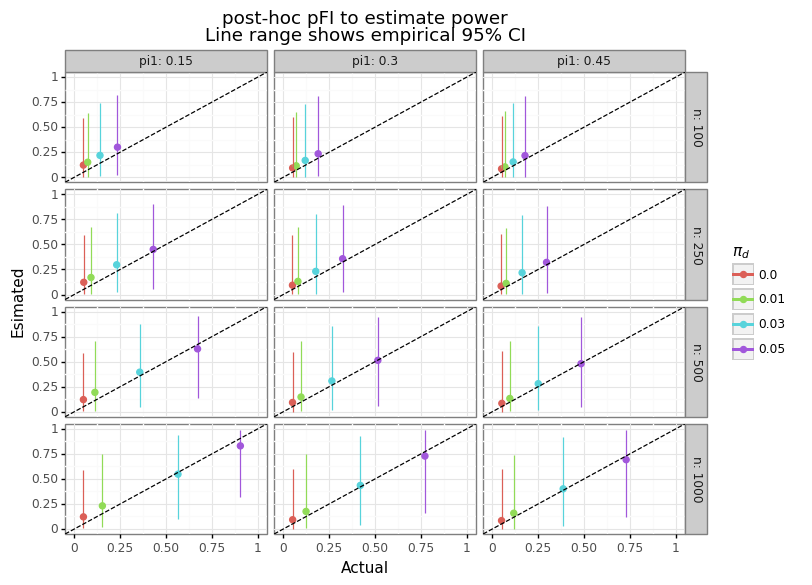
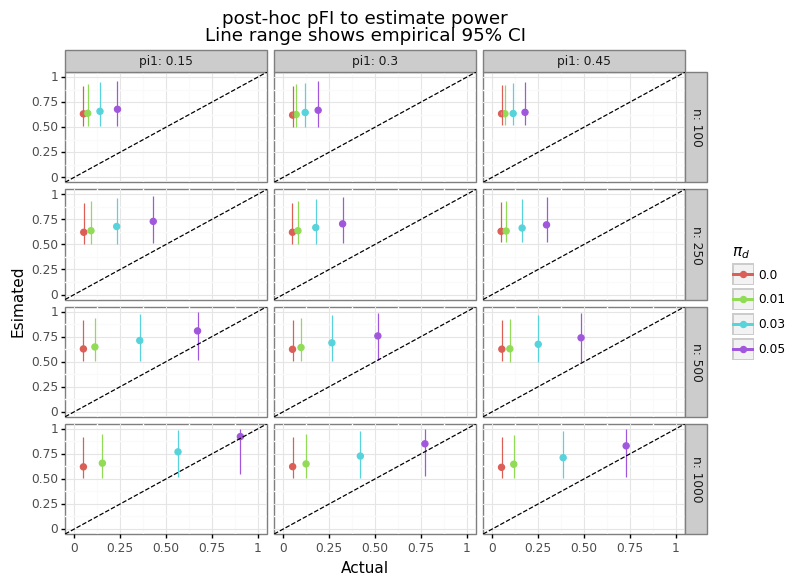
fixing FI post

diff --git a/style.scss b/style.scss
@@ -268,7 +268,7 @@ nav {
     border-left: 2px solid $gray;
     padding: 0.1em 1em;
     color: $gray;
-    font-size: 15px;
+    font-size: 18px;
     font-style: italic;
   }
 

diff --git a/_rmd/extra_FI/explore_binom.py b/_rmd/extra_FI/explore_binom.py
@@ -1,3 +1,6 @@
+# Generate figures used in post
+
+# Load libraries
 import os
 import numpy as np
 import pandas as pd
@@ -24,7 +27,7 @@ sim1.fi()
 sim1.mu_f
 sim1.df_fi.query('reject==1').mean()
 
-gtit='Negative values imply reverse FI\n$\\pi_d=0.1,\\pi_1=0.5,n=100$'
+gtit='Negative values imply reverse FI\n$\\pi_d=0.1,\\pi_1=0.5,n=%i$' % n
 gg_fi_approx = (pn.ggplot(sim1.df_fi,pn.aes(x='fia',y='fi')) + 
     pn.theme_bw() + pn.labs(x='BPFI-approx',y='BPFI-exact') + 
     pn.ggtitle(gtit) + pn.geom_point() + 
@@ -52,24 +55,30 @@ for n in n_seq:
         for pid in pid_seq:
             jj += 1
             print('Iteration %i of %i' % (jj, n_perm))
+            # assert False
             pi2 = pi1 + pid
             sim_jj = BPFI(n=n, pi1=pi1, pi2=pi2, alpha=alpha)
             sim_jj.dgp(nsamp=nsim, seed=jj)
             sim_jj.fi()
+            # self = sim_jj
             # (i) Compare predicted to actual power
             emp_power = sim_jj.reject.mean()
             est_power = sim_jj.power
             tmp_power = pd.DataFrame({'msr':'power','n':n, 'pi1':pi1, 'pid':pid, 'est':est_power, 'emp':emp_power}, index=[jj])
+            
             # (ii) Compare average FI to expected
-            pfi_jj = sim_jj.df_fi.query('reject==1')['fia'].values
+            tmp_rejected = sim_jj.df_fi.query('reject==1')
+            pfi_jj = tmp_rejected['fi'].values
             emp_fi = pfi_jj.mean()
             est_fi = sim_jj.mu_f
             tmp_fi = pd.DataFrame({'msr':'FI','n':n, 'pi1':pi1, 'pid':pid, 'est':est_fi, 'emp':emp_fi}, index=[jj])
-            # (iii) Estimate power from FI
-            tmp_invert = sim_jj.df_fi['power'].quantile([alpha/2,0.5,1-alpha/2]).reset_index()
-            tmp_invert['index'] = tmp_invert['index'].map({alpha/2:'lb',0.5:'med',1-alpha/2:'ub'})
-            tmp_invert = tmp_invert.assign(idx=jj).pivot('idx','index','power').reset_index(None,drop=True)
-            tmp_invert = tmp_invert.assign(n=n,pi1=pi1,pid=pid)
+
+            # # (iii) Estimate power from FI
+            # tmp_invert = tmp_rejected['power'].quantile([alpha/2,0.5,1-alpha/2]).reset_index()
+            # tmp_invert['index'] = tmp_invert['index'].map({alpha/2:'lb',0.5:'med',1-alpha/2:'ub'})
+            # tmp_invert = tmp_invert.assign(idx=jj).pivot('idx','index','power').reset_index(None,drop=True)
+            # tmp_invert = tmp_invert.assign(n=n,pi1=pi1,pid=pid)
+            
             # (iv) Save representative sample of FI values
             pfi_jj_hat = pd.Series(pfi_jj).sample(n=2500,replace=True,random_state=jj).values
             tmp_pfi = pd.DataFrame({'n':n, 'pi1':pi1, 'pid':pid, 'pfi':pfi_jj_hat})
@@ -77,13 +86,14 @@ for n in n_seq:
             # Save
             holder_power.append(tmp_power)
             holder_fi.append(tmp_fi)
-            holder_invert.append(tmp_invert)
+            # holder_invert.append(tmp_invert)
             holder_dist.append(tmp_pfi)
+
 # Merge and plot            
 res_power = pd.concat(holder_power)
 res_fi_mu = pd.concat(holder_fi)
-res_invert = pd.concat(holder_invert).reset_index(None,drop=True)
-res_invert = res_invert.merge(res_power)
+# res_invert = pd.concat(holder_invert).reset_index(None,drop=True)
+# res_invert = res_invert.merge(res_power)
 res_pfi = pd.concat(holder_dist).reset_index(None, drop=True)
 
 #########################
@@ -104,25 +114,25 @@ gg_save('gg_power.png',dir_figures,gg_power,8,6)
 # (ii) Average fragility index
 gg_fi_mu = (pn.ggplot(res_fi_mu,pn.aes(x='emp',y='est',color='pid.astype(str)')) + 
     pn.theme_bw() + pn.geom_point(size=3) + 
-    pn.ggtitle('Positive fragility index (pFI)') + 
+    pn.ggtitle('Mean of positive fragility index (pFI)') + 
     pn.labs(x='Actual',y='Expected') + 
     pn.facet_grid('n~pi1',labeller=pn.label_both) + 
     pn.geom_abline(slope=1,intercept=0,linetype='--') + 
     pn.scale_color_discrete(name='$\\pi_d$'))
 gg_save('gg_fi_mu.png',dir_figures,gg_fi_mu,8,6)
 
-# (iii) Post-hoc power
-gg_posthoc = (pn.ggplot(res_invert,pn.aes(x='emp',y='med',color='pid.astype(str)')) + 
-    pn.theme_bw() + pn.geom_point(size=2) + 
-    pn.geom_linerange(pn.aes(ymin='lb',ymax='ub')) + 
-    pn.ggtitle('post-hoc pFI to estimate power\nLine range shows empirical 95% CI') +
-    pn.labs(x='Actual',y='Esimated') + 
-    pn.facet_grid('n~pi1',labeller=pn.label_both) + 
-    pn.geom_abline(slope=1,intercept=0,linetype='--') + 
-    pn.scale_y_continuous(limits=[0,1]) + 
-    pn.scale_x_continuous(limits=[0,1]) + 
-    pn.scale_color_discrete(name='$\\pi_d$'))
-gg_save('gg_posthoc.png',dir_figures,gg_posthoc,8,6)
+# # (iii) Post-hoc power
+# gg_posthoc = (pn.ggplot(res_invert,pn.aes(x='emp',y='med',color='pid.astype(str)')) + 
+#     pn.theme_bw() + pn.geom_point(size=2) + 
+#     pn.geom_linerange(pn.aes(ymin='lb',ymax='ub')) + 
+#     pn.ggtitle('post-hoc pFI to estimate power\nLine range shows empirical 95% CI') +
+#     pn.labs(x='Actual',y='Esimated') + 
+#     pn.facet_grid('n~pi1',labeller=pn.label_both) + 
+#     pn.geom_abline(slope=1,intercept=0,linetype='--') + 
+#     pn.scale_y_continuous(limits=[0,1]) + 
+#     pn.scale_x_continuous(limits=[0,1]) + 
+#     pn.scale_color_discrete(name='$\\pi_d$'))
+# gg_save('gg_posthoc.png',dir_figures,gg_posthoc,8,6)
 
 # (iv) Post-hoc fragility index
 gg_pfi = (pn.ggplot(res_pfi,pn.aes(x='np.log(pfi+1)',fill='pid.astype(str)')) + 

diff --git a/_rmd/extra_FI/funs_explore.py b/_rmd/extra_FI/funs_explore.py
@@ -2,6 +2,22 @@ import os
 import numpy as np
 import pandas as pd
 from scipy.stats import norm
+from scipy.optimize import minimize_scalar
+
+# Function to find power
+def power_func(power, target):
+    ipower = norm.ppf(power)
+    return (ipower + norm.pdf(-ipower)/norm.cdf(ipower) - target)**2
+
+def find_power(lhs, nprint):
+    N = len(lhs)
+    holder = np.zeros(N)
+    for i in range(N):
+        if (i+1) % nprint == 0:
+            print('Iteration %i of %i' % (i+1, N))
+        res = minimize_scalar(power_func,method='bounded',bounds=(0,1), args=(lhs[i])).x
+        holder[i] = res
+
 
 """
 s:          # of successes
@@ -34,19 +50,20 @@ class BPFI():
         if self.pi2 is None:
             self.pi2 = self.pi1
         self.pid = self.pi2 - self.pi1
+        self.pi0 = (self.pi1 + self.pi2) / 2
         self.null = True
         if self.pid > 0:
             self.null = False
         # Calculate the oracle power
         self.t_a = norm.ppf(1-alpha)
-        num = np.sqrt(2*self.pi1*(1-self.pi1))*self.t_a-np.sqrt(n)*self.pid
+        num = np.sqrt(2*self.pi0*(1-self.pi0))*self.t_a-np.sqrt(n)*self.pid
         den = np.sqrt(self.pid + self.pi1*(2-self.pi1) - (self.pi1 + self.pid)**2 )
         self.power = 1 - norm.cdf(num / den)
 
         # Calculate the expected value of the FI
-        se_f = np.sqrt(2*self.n*self.pi1*(1-self.pi1))
-        self.mu_f = self.n*(self.pi2-self.pi1) - self.t_a*se_f
-        self.mu_f += se_f*norm.pdf(-self.mu_f/se_f)/norm.cdf(self.mu_f/se_f)
+        se_f = np.sqrt(2*self.n*self.pi0*(1-self.pi0))
+        self.mu_f = self.n*self.pid - self.t_a*se_f
+        self.mu_f += se_f*norm.pdf(-norm.ppf(self.power))/norm.cdf(norm.ppf(self.power))
 
 
     @staticmethod
@@ -81,15 +98,14 @@ class BPFI():
         s2hat2 = (self.s1 + np.sqrt(2*self.n*self.pi0_hat*(1-self.pi0_hat))*self.t_a)
         fi2 = self.s2 - s2hat2
         
-        # Calculation of power
+        # Inverse calculation of power
         pi1hat = self.s1/self.n
         pi2hat = self.s2/self.n
-        se_alt = np.sqrt(pi1hat*(1-pi1hat) + pi2hat*(1-pi2hat))
-        power_mu = norm.cdf(fi2/(np.sqrt(self.n*se_alt)))
-        
+        sig_hat = np.sqrt(self.n*(pi1hat*(1-pi1hat) + pi2hat*(1-pi2hat)))
+        lhs = fi2/sig_hat
+        power_mu = find_power(lhs=lhs, nprint=100)
+
         # Store
-        self.df_fi = pd.DataFrame({'reject':self.reject,'power':power_mu,'fi':fi1, 'fia':fi2})
+        self.df_fi = pd.DataFrame({'reject':self.reject,'fi':fi1, 'fia':fi2})
+        # 'power':power_mu,
         
-        
-
-

diff --git a/_posts/2021-11-07-fragility_index.md b/_posts/2021-11-07-fragility_index.md
@@ -9,19 +9,19 @@ mathjax: true
 
 ## Summary
 
-This post reviews the fragility index, a statistical technique proposed by [Walsh et. al (2014)](http://statmodeling.stat.columbia.edu/wp-content/uploads/2016/07/fragility-index-2014.pdf) to provide an "intuitive" measure of the robustness of study findings. I show that the distribution of the fragility index can be shown to approximate a truncated Gaussian whose expectation is directly related to the power of the test (see equation \eqref{eq:fi_power}). This evidence will hopefully clarify the debate around what statistical quantity the fragility index represents. However, even though the fragility index can, on average, estimate the power of a test, it is a  noisy indicator. I conclude with some arguments both in favour and against the fragility index. To replicate all figures in this post, see [this script](https://github.com/erikdrysdale/erikdrysdale.github.io/blob/master/_rmd/extra_FI/explore_binom.py).
+This post reviews the fragility index, a statistical technique proposed by [Walsh et. al (2014)](http://statmodeling.stat.columbia.edu/wp-content/uploads/2016/07/fragility-index-2014.pdf) to provide an intuitive measure of the robustness of study findings. I show that the distribution of the fragility index can be approximated by a truncated Gaussian whose expectation is directly related to the power of the test (see equation \eqref{eq:fi_power}). This evidence will hopefully clarify the debate around what statistical quantity the fragility index actually represents. However, even though the fragility index can, on average, estimate the power of a test, it is a noisy indicator. In the final sections of this post I provide arguments both in favour and against the fragility index. To replicate all figures in this post, see [this script](https://github.com/erikdrysdale/erikdrysdale.github.io/blob/master/_rmd/extra_FI/explore_binom.py).
 
 <br>
 
 ## (1) Background
 
-Most published studies have exaggerated effect sizes. There are two main reasons for this. First, academic studies are under-powered. This means they do not have enough samples to be able to detect small effects. Second, academic journals incentivize researchers to publish "novel" findings that are statistically significant. In other words, researchers are encouraged to try different variations of statistical tests until something "interesting" is found.[[^1]] As a reminder, the power of a statistical test defines the probability that an effect will be detected when it exists. Power is proportional to the sample size for [consistent](https://en.wikipedia.org/wiki/Consistency_(statistics)) tests because more samples leads to tighter inference around some effect size. Most researchers are aware of the idea of statistical power, but a much small share understand that it is [directly related](http://www.erikdrysdale.com/winners_curse) to effect size bias. Conditional on statistical significance, all measured effect are biased upwards, because there  is a minimum effect size needed for a test to be considered statistically significant.[[^2]] Evidence that most fields of science are under-powered in practice are numerous (see [here](https://www.nature.com/articles/nrn3475) or [here](https://en.wikipedia.org/wiki/Proteus_phenomenon)). Many disciplines do not even require studies to make power justifications before research begins.[[^3]] 
+Most published studies have exaggerated effect sizes. There are two main reasons for this. First, scientific research tends to be under-powered. This means that studies do not have enough samples to be able to detect small effects. Second, academic journals incentivize researchers to publish "novel" findings that are statistically significant. In other words, researchers are encouraged to try different variations of statistical tests until something "interesting" is found.[[^1]] As a reminder, the power of a statistical test defines the probability that an effect will be detected when it exists. Power is proportional to the sample size for [consistent](https://en.wikipedia.org/wiki/Consistency_(statistics)) tests because more samples leads to tighter inference around some effect size. Most researchers are aware of the idea of statistical power, but a much small share understand that it is [directly related](http://www.erikdrysdale.com/winners_curse) to effect size bias. Conditional on statistical significance, all measured effects are biased upwards because there  is a minimum effect size needed for a test to be considered statistically significant.[[^2]] Evidence that most fields of science are under-powered in practice are numerous (see [here](https://www.nature.com/articles/nrn3475) or [here](https://en.wikipedia.org/wiki/Proteus_phenomenon)). Many disciplines do not even require studies to make power justifications before research begins.[[^3]] 
 
-One unfortunate reaction to the problem of low power is for researchers to carry out *post-hoc* (after-the-fact) power calculations, using the estimated effect size as the basis of the power calculations. This approach is highly problematic for three reasons. First, *post-hoc* power is [mathematically redundant](https://stat.uiowa.edu/sites/stat.uiowa.edu/files/techrep/tr378.pdf) since it has a one-to-one mapping with the conventionally calculated p-value. Second, *post-hoc* power will always "show" high power for statistically significant results, and low power for statistically insignificant results (this [helpful post](https://blogs.worldbank.org/impactevaluations/why-ex-post-power-using-estimated-effect-sizes-bad-ex-post-mde-not) explains why).[[^4]] Lastly, in underpowered designs, the estimated effect will be noisy, making *post-hoc* estimates of power [equally as noisy](http://www.stat.columbia.edu/~gelman/research/published/retropower_final.pdf)!
+Some researchers have attempted to justify the sample sizes of their studies by doing out *post-hoc* (after-the-fact) power calculations using the estimated effect size as the basis for their estimates. This approach is problematic for three reasons. First, *post-hoc* power using the measured effect size as the assumed effect size is [mathematically redundant](https://stat.uiowa.edu/sites/stat.uiowa.edu/files/techrep/tr378.pdf) since it has a one-to-one mapping with the conventionally calculated p-value. Second, this type of *post-hoc* power will always show high power for statistically significant results, and low power for statistically insignificant results (this [helpful post](https://blogs.worldbank.org/impactevaluations/why-ex-post-power-using-estimated-effect-sizes-bad-ex-post-mde-not) explains why).[[^4]] Lastly, in underpowered designs, the estimated effect will be noisy, making *post-hoc* estimates of power [equally as noisy](http://www.stat.columbia.edu/~gelman/research/published/retropower_final.pdf)!
 
 The fragility index (FI) is relatively new statistical technique that uses an intuitive approach to quantify *post-hoc* robustness in studies with a binary outcomes framework with two groups. Qualitatively, the FI states how many patients in the treatment group would need to have their status swapped from event to no-event in order for the trial to be statistically insignificant.[[^5]] In the original Walsh paper, the FI was calculated for RCTs published in high impact medical journals. They found median FI of 8, and a 25% quantile of 3. 
 
-Since the original Walsh paper, the FI has been applied hundreds of times to other branches of the (mainly) medical literature.[[^6]] Most branches of medical literature show a median FI that is in the single digits. While the FI has its drawbacks (discussed below), this new approach appears to have captured the statistical imagination of researchers in a way that power calculations have not. While being told that a study has 20% power should cause immediate concern, it apparently does not cause the same level of concern as finding out an important cancer drug RCT was two coding errors away from being deemed ineffective.
+Since the original Walsh paper, the FI has been applied hundreds of times to other areas of medical literature.[[^6]] Most branches of medical literature show a median FI that is in the single digits. While the FI has its drawbacks (discussed below), this new approach appears to have captured the statistical imagination of researchers in a way that power calculations have not. While being told that a study has 20% power should cause immediate alarm, it apparently does not cause the same level of concern as finding out an important cancer drug RCT was two coding errors away from being deemed ineffective.
 
 The rest of this post is organized as follows: section (2) provides an explicit relationship between the fragility index and the power of the test, section (3) provides an algorithm to calculate the FI using `python` code, section (4) reviews the criticisms against FI, and section (5) concludes.
 
@@ -29,7 +29,7 @@ The rest of this post is organized as follows: section (2) provides an explicit 
 
 ## (2) Binomial proportion fragility index (BPFI)
 
-This section examines the distribution of the FI when the test statistic is the normal-approximation of a difference in a binomial proportion; hereafter referred to as the binomial proportion fragility index (BPFI). While the Fisher's exact test is normally used for estimating the FI, the BPFI is easier to study because it has an analytic solution. Two other simplifications will be used in this section for ease of analysis. First, the sample sizes will be the same between groups and second, a one-sided hypothesis test will be used. Even though the BPFI may not be standard, it is a consistent statistic that is [asymptotically normal](https://math.stackexchange.com/questions/2579383/proof-of-binomial-distribution-asymptotic-to-normal-distribution) and is just as valid as using asymptotic statistics like a chi-squared test. 
+This section examines the distribution of the FI when the test statistic is the normal-approximation of a difference in a binomial proportion; hereafter referred to as the binomial proportion fragility index (BPFI). While Fisher's exact test is normally used for estimating the FI, the BPFI is easier to study because it has an analytic solution. Two other simplifications will be used in this section for ease of analysis. First, the sample sizes will be the same between groups, and second, a one-sided hypothesis test will be used. Even though the BPFI may not be standard, it is a consistent statistic that is [asymptotically normal](https://math.stackexchange.com/questions/2579383/proof-of-binomial-distribution-asymptotic-to-normal-distribution) and is just as valid as using asymptotic statistics like a chi-squared test. 
 
 The notation used will be as follows: the statistic is the difference in proportions, \\(d\\), whose asymptotic distribution is a function of the number of samples and the respective binary probabilities (\\(\pi_1, \pi_2\\)): 
 
@@ -45,7 +45,7 @@ d &\overset{a}{\sim} N\Bigg( \pi_d, V_d(n)  \Bigg) \\
 \end{align*}
 $$
 
-Assume that \\(n_1 = n_2 = n\\) and the null-hypothesis is \\(\pi_2 \leq \pi_1\\). We want to test whether group 1 has a large event rate than group 2.
+Assume that \\(n_1 = n_2 = n\\) and the null-hypothesis is \\(\pi_2 \leq \pi_1\\). We want to test whether group 1 has a larger event rate than group 2.
 
 $$
 \begin{align*}
@@ -60,20 +60,23 @@ d_A &\overset{a}{\sim} N\Big( \pi_d, \big[\pi_d +\pi_2(2-\pi_2) - (\pi_2+\pi_d)^
 \end{align*}
 $$
 
-Notice that when calculating the variance of the test statistic when the null is false, the event rate is calculated by pooling by samples. For a given type-1 error rate target (\\(\alpha\\)), and corresponding rejection threshold, the power of the test when the null is false can be calculated:
+Notice that when calculating the variance of the test statistic when the null is false, the event rate pools the events across groups. For a given type-1 error rate target (\\(\alpha\\)), and corresponding rejection threshold, the power of the test when the null is false can be calculated:
 
 $$
 \begin{align*}
 \text{Reject }H_0:& \hspace{3mm} \hat{d} > \sqrt{\frac{2\hat\pi_0(1-\hat\pi_0)}{n}}t_\alpha, \hspace{7mm} t_\alpha = \Phi^{-1}_{1-\alpha/2} \\
-P(\text{Reject }H_0 | H_A) &= 1 - \Phi\Bigg(  \frac{\sqrt{2 \pi_1(1-\pi_1)}t_\alpha - \sqrt{n}\pi_d }{\sqrt{\pi_d +\pi_1(2-\pi_1) - (\pi_1+\pi_d)^2}} \Bigg) \\
-\text{Power} &= \Phi\Bigg( \frac{\sqrt{n}\pi_d - \sqrt{2 \pi_1(1-\pi_1)}t_\alpha }{\sqrt{\pi_1(1-\pi_1)+\pi_2(1-\pi_2)}} \Bigg) \tag{1}\label{eq:power} \\
+P(\text{Reject }H_0 | H_A) &= 1 - \Phi\Bigg(  \frac{\sqrt{2 \pi_0(1-\pi_0)}t_\alpha - \sqrt{n}\pi_d }{\sqrt{\pi_d +\pi_1(2-\pi_1) - (\pi_1+\pi_d)^2}} \Bigg) \\
+\text{Power} &= \Phi\Bigg( \frac{\sqrt{n}\pi_d - \sqrt{2 \pi_0(1-\pi_0)}t_\alpha }{\sqrt{\pi_1(1-\pi_1)+\pi_2(1-\pi_2)}} \Bigg) \tag{1}\label{eq:power} \\
 \end{align*}
 $$
 
 The formula \eqref{eq:power} shows that increasing \\(\pi_d\\), \\(n\\), or \\(\alpha\\) all increase the power. Figure 1 below shows that formula to estimate power is a close approximation for reasonable sample sizes.
 
-<center><h3><b>Figure 1: Predicted vs Actual power </b></h3></center>
+
+<br>
+<center><h2><b>Figure 1: Predicted vs Actual power </b></h3></center>
 <center><p><img src="/figures/gg_power.png" width="99%"></p></center>
+<br>
 
 Given that the null has been rejected, the roots of the equation can be solved to find the exact point of statistical insignificance using the quadratic formula.
 
@@ -90,52 +93,60 @@ While equation \eqref{eq:fi1} is exact, the FI can be approximated by assuming t
 $$
 \begin{align*}
 \hat{\text{FI}}_a &= \begin{cases} 
-\hat{s}_2 - \Big(\hat{s}_1 + t_\alpha\sqrt{2n \hat\pi_0(1-\hat\pi_0)}\Big) &\text{ if \\(n_1 = n_2\\)} \\
-\hat{s}_2 - n_2 \Big(\frac{\hat{s}_1}{n_1} + t_\alpha\sqrt{\frac{\hat\pi_0(1-\hat\pi_0)(n_1+n_2)}{n_1n_2}} \Big) &\text{ if \\(n_1\neq n_2\\)} \tag{3}\label{eq:fi2}
+\hat{s}_2 - \Big(\hat{s}_1 + t_\alpha\sqrt{2n \hat\pi_0(1-\hat\pi_0)}\Big) &\text{ if ) n_1 = n_2} \\
+\hat{s}_2 - n_2 \Big(\frac{\hat{s}_1}{n_1} + t_\alpha\sqrt{\frac{\hat\pi_0(1-\hat\pi_0)(n_1+n_2)}{n_1n_2}} \Big) &\text{ if } n_1\neq n_2 \tag{3}\label{eq:fi2}
 \end{cases}
 \end{align*}
 $$
 
 As Figure 2 shows below, \eqref{eq:fi2} is very close to the \eqref{eq:fi1} for reasonably sized draws (\\(n=200\\)).
 
-<center><h3><b>Figure 2: BPFI and its approximation</b></h3></center>
+<br>
+<center><h2><b>Figure 2: BPFI and its approximation</b></h3></center>
 <center><p><img src="/figures/gg_fi_approx.png" width="50%"></p></center>
+<br>
 
-Next, we can show that the approximation of the BPFI from \eqref{eq:fi2} is equivalent to a truncated normal when conditioning on statistical significance. 
+Next, we can show that the approximation of the BPFI from \eqref{eq:fi2} is equivalent to a truncated Gaussian when conditioning on statistical significance. 
 
+<!-- s_2 - (s_1 + t_\alpha\sqrt{2n \pi_1(1-\pi_1)}) \hspace{2mm} &\big| \hspace{2mm} s_2 - (s_1 + t_\alpha\sqrt{2n \pi_1(1-\pi_1)}) > 0\hspace{2mm} \longleftrightarrow \\ -->
 $$
 \begin{align*}
-s_2 - (s_1 + t_\alpha\sqrt{2n \pi_1(1-\pi_1)}) \hspace{2mm} &\big| \hspace{2mm} s_2 - (s_1 + t_\alpha\sqrt{2n \pi_1(1-\pi_1)}) > 0\hspace{2mm} \longleftrightarrow \\
 \text{pFI}_a &= \text{FI}_a \hspace{2mm} \big| \hspace{2mm} \text{FI}_a > 0 \hspace{2mm} \longleftrightarrow \\
-\text{FI}_a &\sim N \big( n\pi_d - t_\alpha\sqrt{2n \pi_1(1-\pi_1)}, n[\pi_1(1-\pi_1) + \pi_2(1-\pi_2)]   \big) \\
-E[\text{pFI}_a] &= n\pi_d - t_\alpha\sqrt{2n \pi_1(1-\pi_1)} + \sqrt{n[\pi_1(1-\pi_1) + \pi_2(1-\pi_2)]} \frac{\phi(-E[\text{FI}_a]/\text{Var}[\text{FI}_a]^{0.5})}{\Phi(E[\text{FI}_a/\text{Var}[\text{FI}_a]^{0.5}])}
+\text{FI}_a &\sim N \big( n\pi_d - t_\alpha\sqrt{2n \pi_0(1-\pi_0)}, n[\pi_1(1-\pi_1) + \pi_2(1-\pi_2)]   \big) \\
+E[\text{pFI}_a] &= n\pi_d - t_\alpha\sqrt{2n \pi_0(1-\pi_0)} + \sqrt{n[\pi_1(1-\pi_1) + \pi_2(1-\pi_2)]} \frac{\phi(-E[\text{FI}_a]/\text{Var}[\text{FI}_a]^{0.5})}{\Phi(E[\text{FI}_a/\text{Var}[\text{FI}_a]^{0.5}])}
 \end{align*}
 $$
 
-<center><h3><b>Figure 3: Mean of the pFI </b></h3></center>
-<center><p><img src="/figures/gg_fi_mu.png" width="99%"></p></center>
+Figure 3 below shows that the truncated Gaussian approximation does a good job at estimating the actual mean of BPFI. 
 
+<br>
+<center><h2><b>Figure 3: Mean of the pFI </b></h3></center>
+<center><p><img src="/figures/gg_fi_mu.png" width="99%"></p></center>
+<br>
 
 If the positive BPFI is divided by root-n and the variance under the alternative (a constant) we obtain something converging to a monotonic transformation of the fragility index:
 
 $$
 \begin{align*}
-E\Bigg[\frac{\text{pFI}_a \big/ \sqrt{n}}{\sqrt{\pi_1(1-\pi_1) + \pi_2(1-\pi_2)} }\Bigg] &= \Phi^{-1}(1-\beta) + \frac{\phi\big(-O\big(\sqrt{n}\big)\big)}{\Phi\big(O\big(\sqrt{n}\big)\big)} \\
-&= \Phi^{-1}(\underbrace{1-\beta}_{\text{power}}) + O\Big(e^{-\sqrt{n}}\Big) \tag{4}\label{eq:fi_power}
+E\Bigg[\frac{\text{pFI}_a \big/ \sqrt{n}}{\sqrt{\pi_1(1-\pi_1) + \pi_2(1-\pi_2)} }\Bigg] &= \Phi^{-1}(1-\beta) + \frac{\phi\big(c_2-c_1\sqrt{n})}{\Phi\big(c_1\sqrt{n}-c_2\big)} \\
+&= \Phi^{-1}(\underbrace{1-\beta}_{\text{power}}) + O\Big(e^{-\sqrt{n}}\Big) \tag{4}\label{eq:fi_power} \\
+1-\hat\beta &\approx \Bigg( \frac{\hat{\text{pFI}}_a \big/ \sqrt{n}}{\sqrt{\hat\pi_1(1-\hat\pi_1) + \hat\pi_2(1-\hat\pi_2)} } \Bigg) \tag{5}\label{eq:invert}
 \end{align*}
 $$
 
-Where \\(\beta\\) is the type-II error rate (i.e. one minus power). Figure 4 below shows the range of power esetimates that are obtained when equation \eqref{eq:fi_power} is inverted and solved for \\(1-\beta\\).
+Where \\(\beta\\) is the type-II error rate (i.e. one minus power). Figure 4 below shows the range of power estimates using equation \eqref{eq:invert} which is obtained when equation \eqref{eq:fi_power} is inverted and solved for \\(1-\beta\\).
 
-<center><h3><b>Figure 4: Estimating power from FI </b></h3></center>
+<br>
+<center><h2><b>Figure 4: Estimating power from FI </b></h3></center>
 <center><p><img src="/figures/gg_posthoc.png" width="99%"></p></center>
+<br>
 
-While the average power estimate is close to actual value, the empirical variation is tremendous. Why is there so much variation? The answer is simple: the distribution of FIs is similar for different effect sizes are figure 5 shows below.
+While the median power estimate is close to actual value, the empirical variation is tremendous. Why is there so much variation? The answer is simple: the distribution of FIs is similar for different effect sizes as figure 5 shows below.
 
-<center><h3><b>Figure 5: Distribution of FIs </b></h3></center>
+<center><h2><b>Figure 5: Distribution of FIs </b></h3></center>
 <center><p><img src="/figures/gg_pfi.png" width="99%"></p></center>
 
-Even though a test may have a power of 75%, it will have a similarly distribution FI compared to one that has only 10% power. This naturally means that there will be significant uncertainty around the true effect size for any measured FI. 
+Even though a test may have a power of 75%, it will have a similar distribution FIs to another test that has only 10% power. This naturally means that there will be significant uncertainty around the true effect size for any measured FI. 
 
 <br>
 
